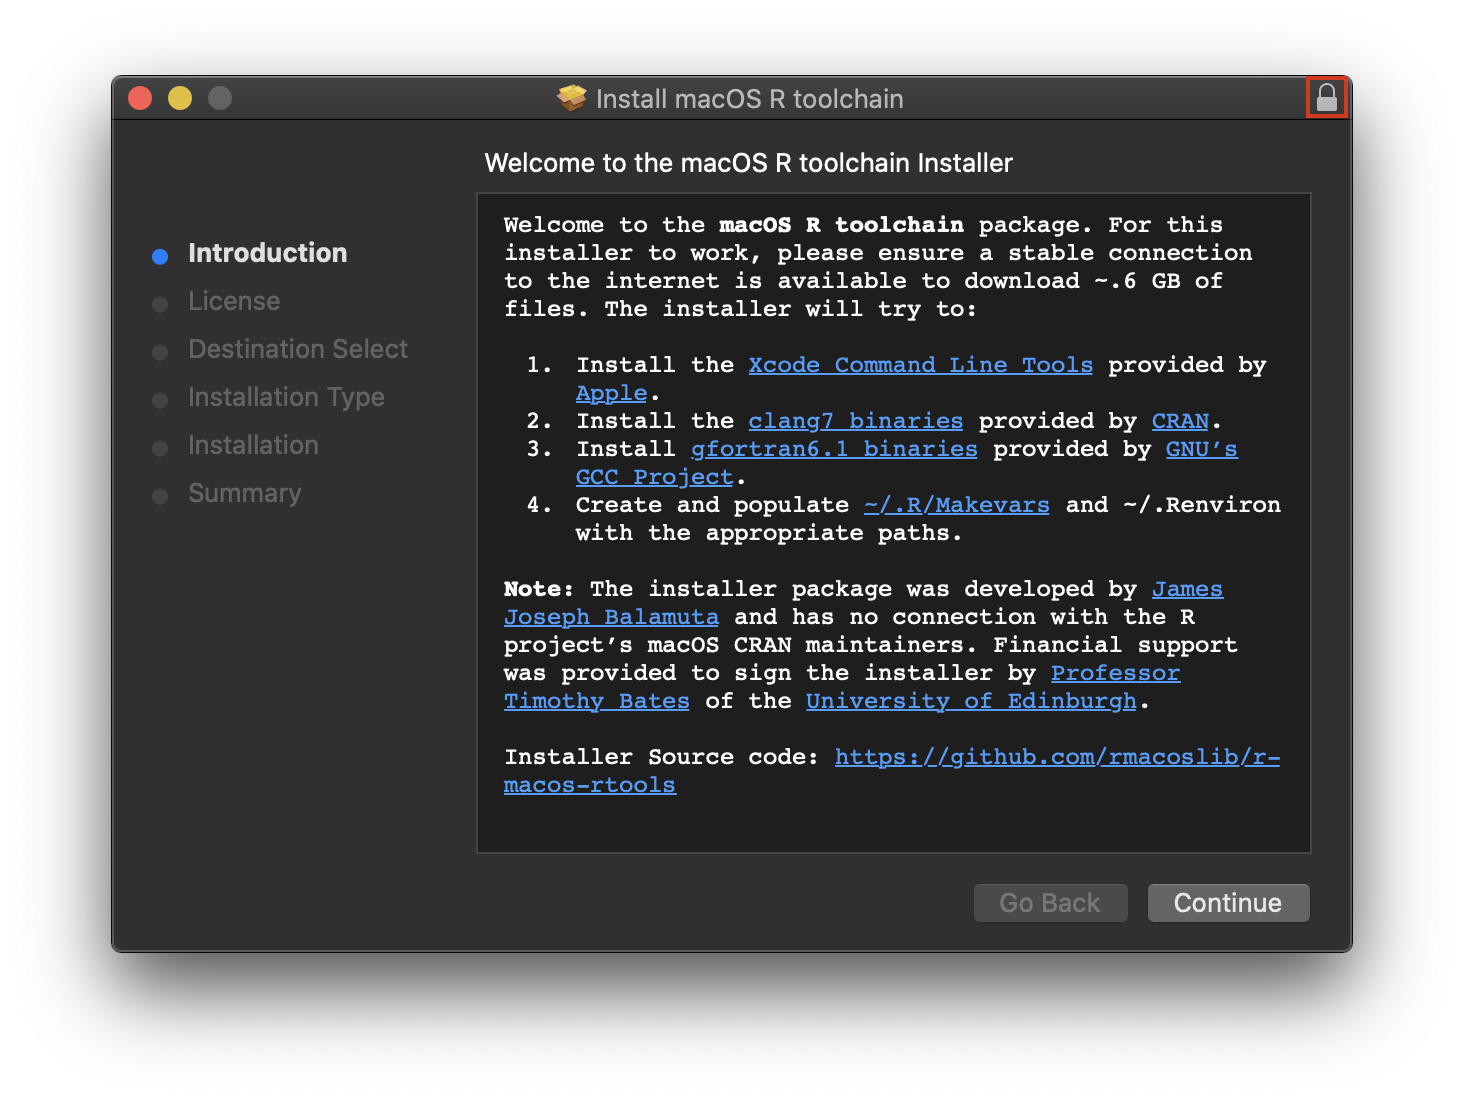
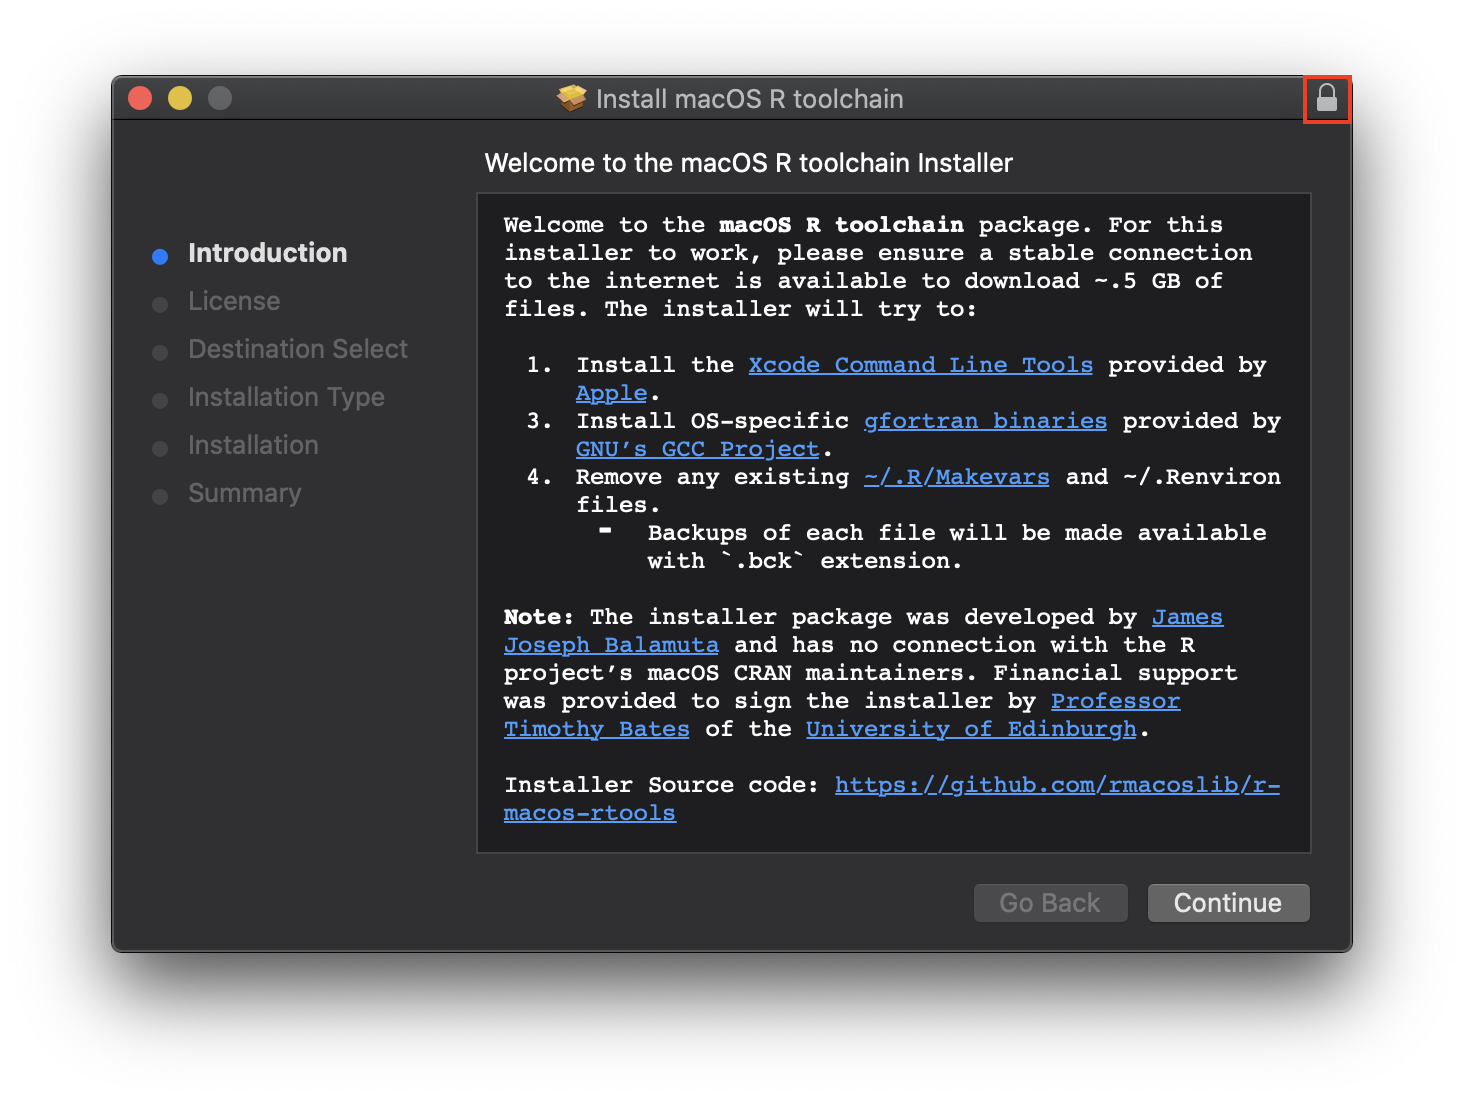
Update build for R 4.0.0 (#38)
* Re-tool README

* Re-write welcome splash

* Bump copyright and versioning

* Remove outdated configuration manipulations

* Switch to removing existing Makevars

* Switch to removing existing R_ENVIRON

* Switch to a different way of detecting macOS minor version (10.x)

* Pin to Mojave the rest.

* Bring out the label step a bit.

* Add a download function for the gfortran dmg

* Update the install gfortran component

* Add a backup and remove file function. Remove download gfortran

* Port over the configuration checks to use the backup and remove function

* Implement a new gfortran download and installation technique

* Upgrade installer accepted macos versions

* Add changelog details

* Remove dangling installer

* Update splash screen of installer for readme

Changed region(s): [[0.3381, 0.3709, 0.8914, 0.7727], [0.8914, 0.0618, 0.9221, 0.1236]]

diff --git a/README.md b/README.md
@@ -1,22 +1,23 @@
 
 # Installer Package for macOS _R_ toolchain [![License](https://img.shields.io/badge/license-GPL%20%28%3E=%202%29-brightgreen.svg?style=flat)](http://www.gnu.org/licenses/gpl-2.0.html)
 
-The repository contains the scripts used to create an installer package (.pkg)
+The repository contains the scripts used to create an installer package (`.pkg`)
 that contains binaries used to create the CRAN official macOS _R_ binary. 
+
 Specifically, the installer will try to download and install:
 
 - Xcode command line tools (XCode CLI) from Apple
-- `clang7` from <https://cran.r-project.org/bin/macosx/tools/>
-- `gfortran6.1` from <https://cran.r-project.org/bin/macosx/tools/>
+- `gfortran6.3` or `gfortran8.2` from <https://github.com/fxcoudert/gfortran-for-macOS/releases>
 
-Aftwards, it will attempt to configure the necessary `~/.R/Makevars` and `~/.Renviron` files.
-If either file is pre-existing, then a backup will be made prior to setting up the new versions. 
+Moreover, the installer will attempt to clean up previous installations by 
+removing configuration files `~/.R/Makevars` and `~/.Renviron` that are no longer used. 
+Backups for each file will be presented with `.bck` appended to the end. 
 
 For those interested, the installer can be obtained
 on either the project's [**release page**](https://github.com/rmacoslib/r-macos-rtools/releases/latest)
 or through <http://go.illinois.edu/r-macos-rtools-pkg>. The pre-built binaries this
-installer encloses can be found at <https://developer.apple.com/download/more/>,
-<https://cran.r-project.org/bin/macosx/tools/>, and <https://gcc.gnu.org/wiki/GFortranBinaries#MacOS-1>. 
+installer encloses can be found at <https://developer.apple.com/download/more/> and
+<https://github.com/fxcoudert/gfortran-for-macOS/releases>. 
 
 **Note** The installer package was developed by [James Joseph Balamuta](https://thecoatlessprofessor.com)
 and has no connection with the R project’s macOS CRAN maintainers. 
@@ -33,8 +34,7 @@ of the [University of Edinburgh](http://www.ed.ac.uk/).
 
 **That's it.**
 
-Once installed, you can start using compiled code
-in _R_ like normal with the added benefit of `OpenMP`.
+Once installed, you can start using compiled code in _R_ like normal.
 
 If you want to see behind the curtain, continue reading...
 
@@ -44,15 +44,12 @@ The macOS _R_ toolchain installer performs four actions that require
 the user's password to accomplish. These actions are:
 
 1. download and install XCode CLI via secure Apple product update
-1. download, verify, and install the `clang7` pre-made binary 
-   files into the `/usr/local/clang7` directory
-1. download, verify, and install `gfortran6.1`
-1. establish the proper header files in `CFLAGS`, `CPPFLAGS`, and `CXXFLAGS` in the `~/.R/Makevars` file
-1. add to the `PATH` variable where the `clang7` binary is by using `~/.Renviron`
+1. remove any existing `~/.R/Makevars` or `~/.Renviron` (backups available with `.bck`)s
+1. determine which `gfortran` version to use
+1. download, verify, and install the appropriate `gfortran` version
 
-**Note:** The installer will replace existing `~/.R/Makevars` and `~/.Renviron` files. 
+**Note:** The installer will remove any existing `~/.R/Makevars` and `~/.Renviron` files. 
 The existing files will be copied to a backup file, e.g. `~/.R/Makevars.bck` and `~/.Renvion.bck`.
-Re-running the installer _will_ result in the old backup files being wiped.
 
 Verify steps are conducted using embedded md5 hashes of the files.
 If the hash is not identical to what was embedded, the installer will
@@ -83,22 +80,16 @@ With this being said, the code used to generate the installer has been made publ
 Below is an abridged version of the actions of each file provided.
 
 - `scripts/postinstall`
-   - Downloads and Installs Xcode CLI, `clang7`, and `gfortran6.1`
+   - Downloads and Installs Xcode CLI and the appropriate `gfortran` version
       - Detects the appropriate `Command Line Tools` dmg installer
 	    by using a [headless cli check](https://github.com/timsutton/osx-vm-templates/blob/ce8df8a7468faa7c5312444ece1b977c1b2f77a4/scripts/xcode-cli-tools.sh#L8-L14),
 		downloads the installer from <https://developer.apple.com/download/more/>,
 		and installs it using `softwareupdate`.
-      - Downloads the `clang-7.0.0.pkg` from
-       <https://cran.r-project.org/bin/macosx/tools/> and installs it into `/` directory
-	    so that it is installed on `/usr/local/clang7`
-      - Downloads the gfortran binary 6.1 from 
-        <https://cran.r-project.org/bin/macosx/tools/gfortran-6.1.pkg>, and 
+      - Downloads the gfortran binary  from 
+        <https://github.com/fxcoudert/gfortran-for-macOS/releases>, and 
         and installs it into `/usr/local/gfortran`.
-   - Create the `~/.R/Makevars` file with the necessary implicit variables
-     to compile using the new header location.
-	   - `CFLAGS`, `CPPFLAGS`, `CXXFLAGS` for `clang7`
-   - Make the `~/.Renviron` file with a modified `PATH` variable to the location of `clang7`.
-   - **Note:** Pre-existing `~/.R/Makevars` and `~/.Renviron` files will be backed up prior to being overridden. 
+   - Removes the `~/.R/Makevars` and `~/.Renviron` files 
+   - **Note:** Pre-existing `~/.R/Makevars` and `~/.Renviron` files will be backed up prior to being removed. 
 - `make_installer.sh`
    - Create the installer package R binary installer `.pkg`
       - Builds the package from the extracted tar using `pkgbuild` 

diff --git a/ChangeLog.md b/ChangeLog.md
@@ -1,5 +1,12 @@
 ## ChangeLog
 
+### __v4.0.0__ - 2020-05-27
+
+- Re-wrote the installer package to focus on R 4.0.0 requirements.
+   - Downloads and installs Xcode CLI
+   - Downloads and installs appropriate gfortran binary
+   - Backup and remove existing ~/.R/Makevars and ~/.Renviron configuration files. 
+
 ### __v3.2.2__ - 2019-12-30
 
 - Xcode CLI headless installation for macOS Catalina was made more robust ([#33](https://github.com/rmacoslib/r-macos-rtools/issues/33)). 
